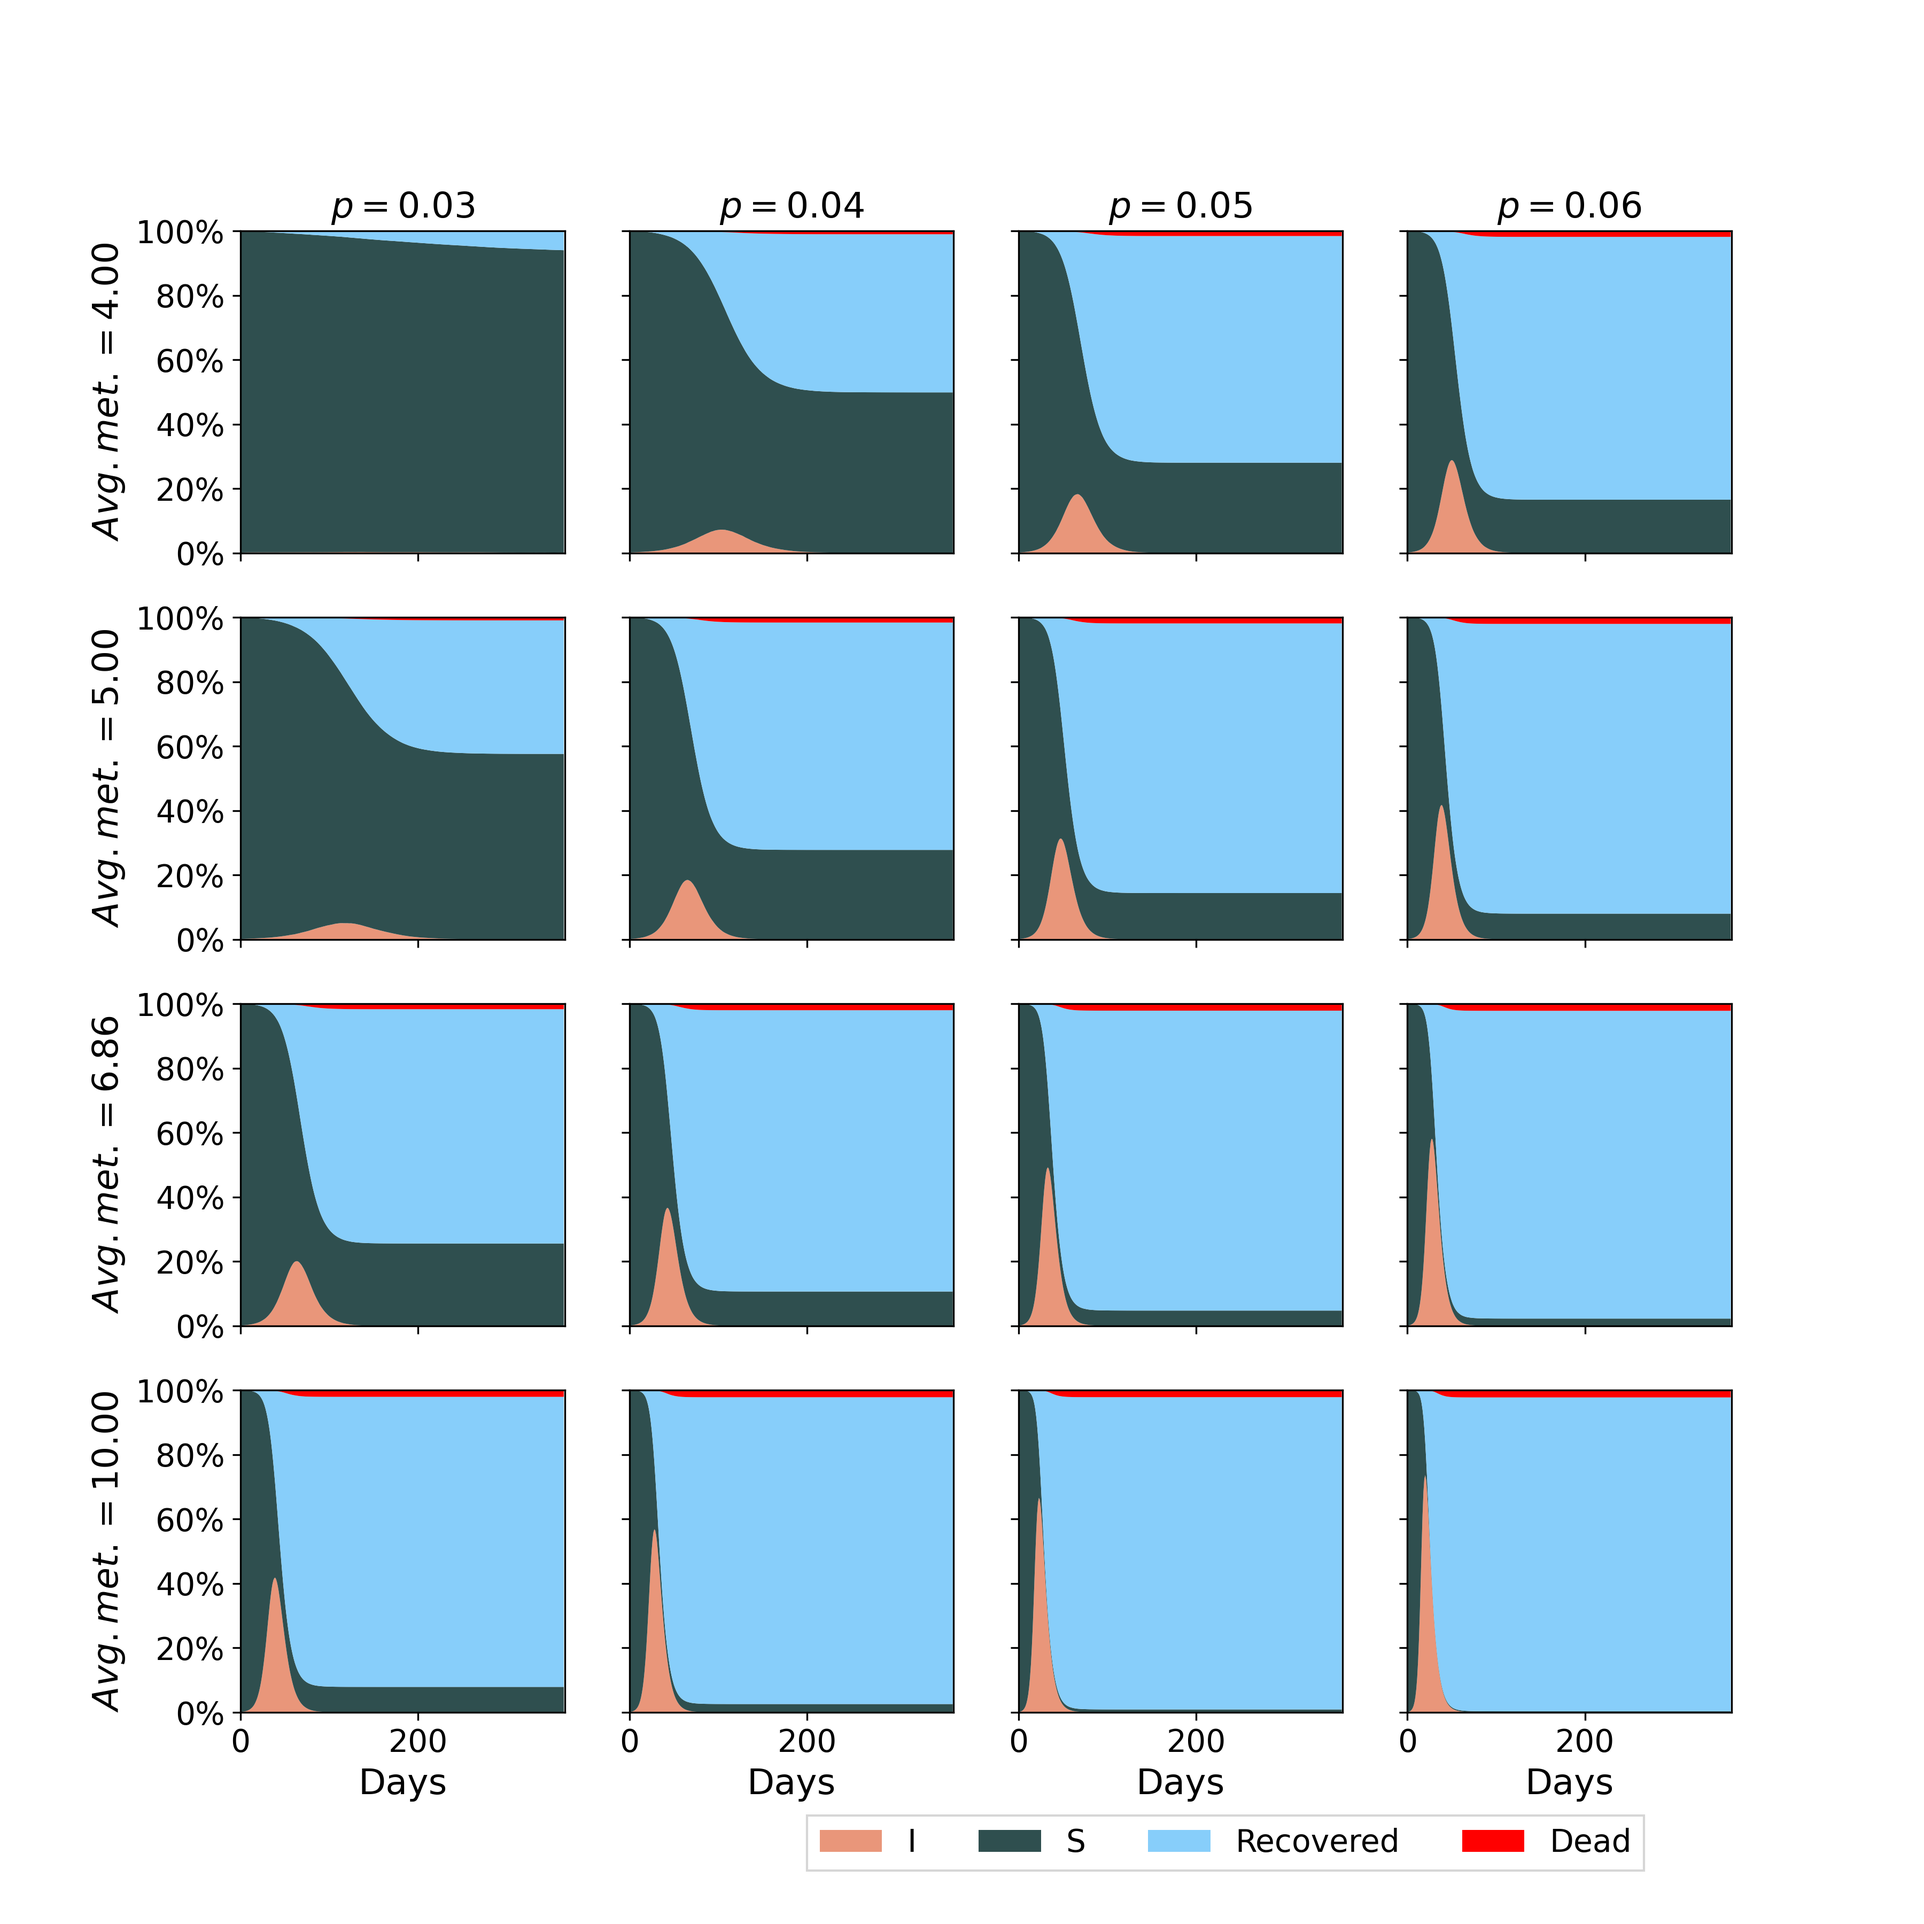
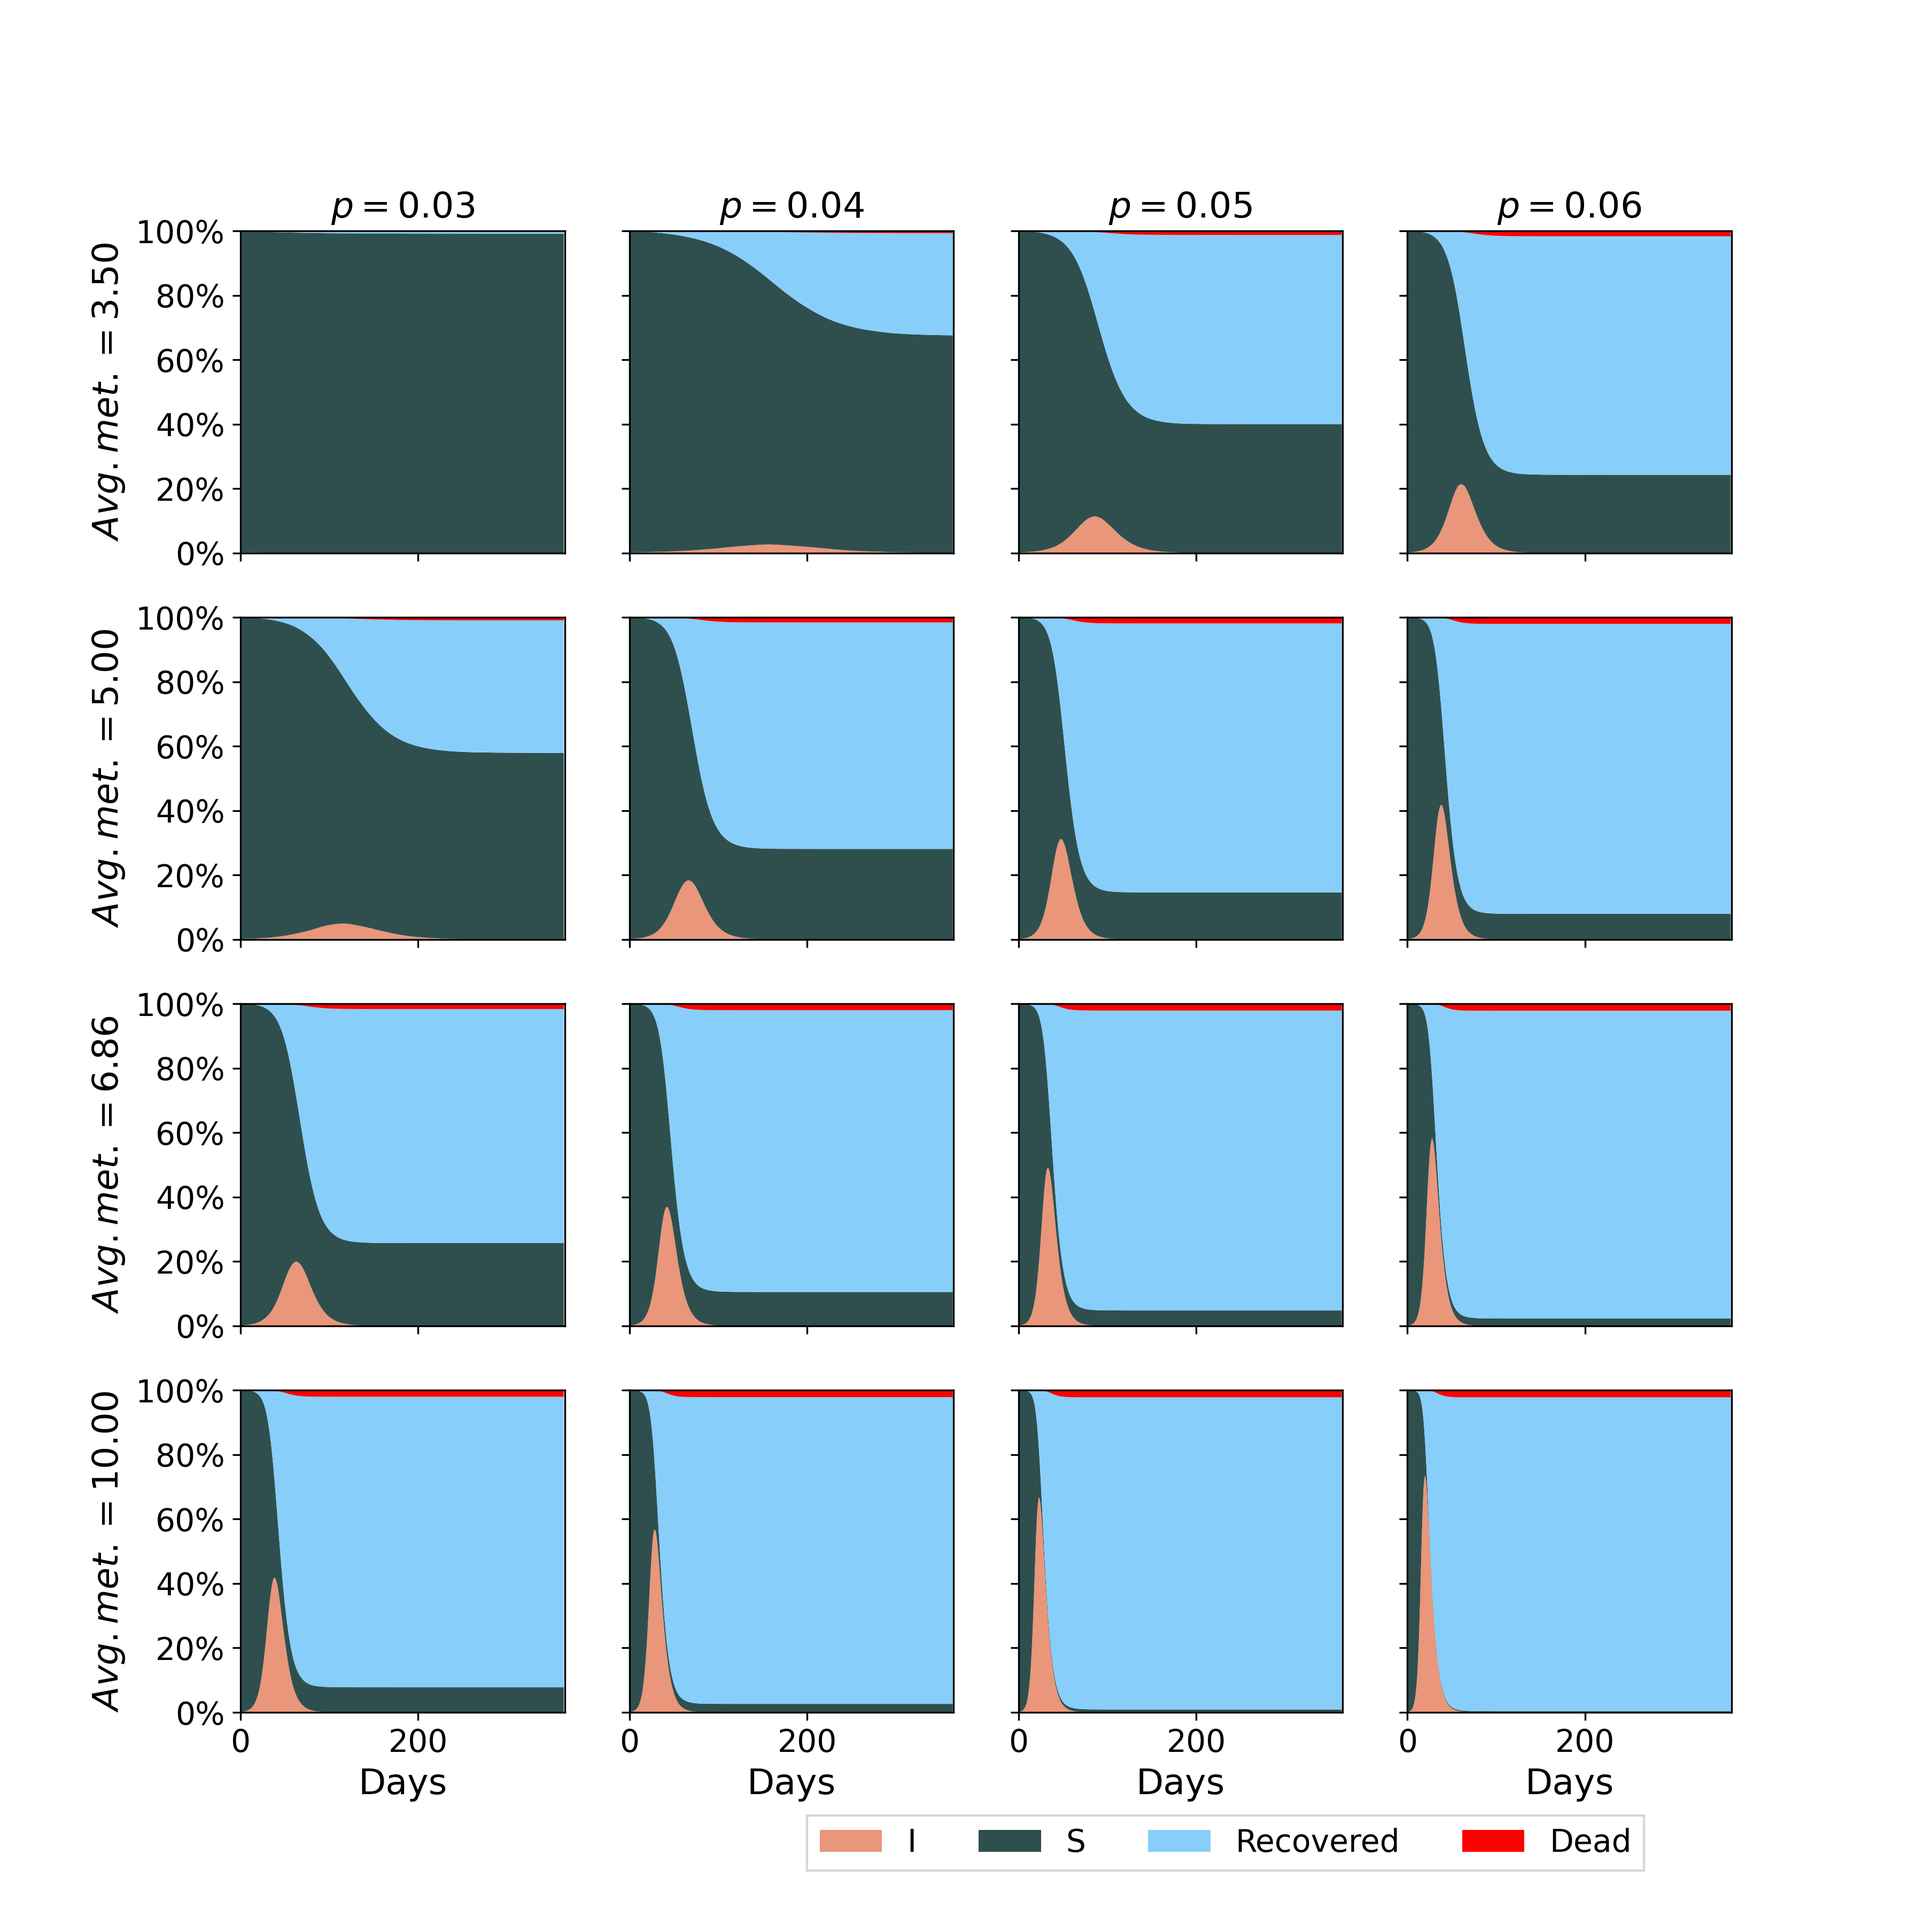
more plots

diff --git a/scenarios.py b/scenarios.py
@@ -14,7 +14,7 @@ from Region import Region
 from Sampler import Sampler
 import pandas as pd
 
-from simulation import simulate
+from simulation import simulate, repeat_simulate
 
 plot_path = 'plots'
 
@@ -58,9 +58,62 @@ def scenario2():
     copenhagen = Region('Copenhagen', population_size, sampler, I_initial)
     country = Country([copenhagen])
 
-    contageon_probs = [0.03, 0.04, 0.05, 0.06]
-    average_people_mets = [4, 5, 6.86, 10]
+    contageon_probs = [0.02, 0.025, 0.04, 0.05]
+    average_people_mets = [3, 5, 6.86, 10]
 
+    fig, axs = plt.subplots(1, len(contageon_probs), squeeze=True, sharey='row', figsize=(12, 4))
+    for i, (ax, contageon_prob) in enumerate(zip(axs, contageon_probs)):
+        sampler.contagion_prob = contageon_prob
+        result = simulate(country)
+        Plotter.plot_SIR(result, ax=ax)
+        ax.set_title(f'$p={contageon_prob:.3f}$')
+        ax.set_xlabel('Days')
+        if i == len(contageon_probs)-1:
+            ax.legend(['I', 'S', 'Recovered', 'Dead'], loc='upper center',
+                      bbox_to_anchor=(1.5, 1), fancybox=False, shadow=False, ncol=1)
+    plt.savefig(os.path.join(plot_path, '2_SEIR_hygene.png'), dpi=300)
+    plt.tight_layout()  # rect=[0, 0.03, 1, 0.95]
+    plt.show()
+
+    fig, axs = plt.subplots(1, len(average_people_mets), squeeze=True, sharey='row', figsize=(12, 4))
+    for i, (ax, avg_people_met_pr_day) in enumerate(zip(axs, average_people_mets)):
+        sampler.avg_people_met_pr_day = avg_people_met_pr_day
+        result = simulate(country)
+        Plotter.plot_SIR(result, ax=ax)
+        ax.set_title(f'$Avg. met ={avg_people_met_pr_day:.3f}$')
+        ax.set_xlabel('Days')
+        if i == len(average_people_mets)-1:
+            ax.legend(['I', 'S', 'Recovered', 'Dead'], loc='upper center',
+                      bbox_to_anchor=(1.5, 1), fancybox=False, shadow=False, ncol=1)
+    plt.savefig(os.path.join(plot_path, '2_SEIR_distancing.png'), dpi=300)
+    plt.tight_layout()  # rect=[0, 0.03, 1, 0.95]
+    plt.show()
+
+    if False:  # 2D grid plots
+        fig, axs = plt.subplots(len(average_people_mets), len(contageon_probs), squeeze=False,
+                                sharey='row', sharex='col', figsize=(12, 12))
+        for j, axs2 in enumerate(axs):
+            for i, ax in enumerate(axs2):
+                contageon_prob = contageon_probs[i]
+                average_people_met = average_people_mets[j]
+                sampler.contagion_prob = contageon_prob
+                sampler.avg_people_met_pr_day = average_people_met
+                result = simulate(country)
+                Plotter.plot_SIR(result, ax=ax)
+                if j == 0:
+                    ax.set_title(f'$p={contageon_prob:.2f}$')
+                if j == len(average_people_mets)-1:
+                    ax.set_xlabel('Days')
+                    if i == 1:
+                        ax.legend(['I', 'S', 'Recovered', 'Dead'], loc='lower left',
+                                  bbox_to_anchor=(0.5, -0.54, 2, .102), fancybox=False, shadow=False, ncol=4)
+                if i == 0:
+                    ax.set_ylabel(f'$Avg. met. ={average_people_met:.2f}$')
+
+        plt.savefig(os.path.join(plot_path, '2_SEIR.png'), dpi=300)
+        plt.show()
+
+    return None
     fig, axs = plt.subplots(len(average_people_mets), len(contageon_probs), squeeze=False,
                             sharey='row', sharex='col', figsize=(12, 12))
     for j, axs2 in enumerate(axs):
@@ -69,26 +122,46 @@ def scenario2():
             average_people_met = average_people_mets[j]
             sampler.contagion_prob = contageon_prob
             sampler.avg_people_met_pr_day = average_people_met
-            result = simulate(country)
-            Plotter.plot_SIR(result, ax=ax)
+            result = repeat_simulate(country)
+            Plotter.plot_intervals(result['I'], ax=ax)
             if j == 0:
                 ax.set_title(f'$p={contageon_prob:.2f}$')
-            if j == len(average_people_mets)-1:
+            if j == len(average_people_mets) - 1:
                 ax.set_xlabel('Days')
-                if i == 1:
-                    ax.legend(['I', 'S', 'Recovered', 'Dead'], loc='lower left',
-                              bbox_to_anchor=(0.5, -0.54, 2, .102), fancybox=False, shadow=False, ncol=4)
+                # if i == 1:
+                #    ax.legend(['I', 'S', 'Recovered', 'Dead'], loc='lower left',
+                #              bbox_to_anchor=(0.5, -0.54, 2, .102), fancybox=False, shadow=False, ncol=4)
             if i == 0:
                 ax.set_ylabel(f'$Avg. met. ={average_people_met:.2f}$')
 
-    # fig.subplots_adjust(bottom=0.3, wspace=0.33)
-
-    # plt.tight_layout(rect=[0, 0.03, 1, 0.95])  # mode='expand', borderaxespad=0.
-    # fig.legend(['S', 'I', 'R'], bbox_to_anchor=(2, 0), loc='lower right')
-    # plt.subplots_adjust(left=0.07, right=0.93, wspace=0.25, hspace=0.35)
-    plt.savefig(os.path.join(plot_path, '2_SEIR.png'), dpi=300)
+    plt.savefig(os.path.join(plot_path, '2_SEIR_infections.png'), dpi=300)
     plt.show()
 
+def scenario3():
+    np.random.seed(7)
+    # Simple SIR model.
+    sampler = Sampler()
+
+    population_size = 500_000
+    I_initial = 5_000
+    copenhagen = Region('Copenhagen', population_size, sampler, I_initial)
+    country = Country([copenhagen])
+
+    symp_people_out = [0.0, 0.05, 0.1, 0.2, 0.5]
+    fig, axs = plt.subplots(1, len(symp_people_out), squeeze=True, sharey='row', figsize=(12, 4.5))
+    for ax, fraction_symp_out in zip(axs, symp_people_out):
+        sampler.fraction_symp_out = fraction_symp_out
+        result = simulate(country)
+        Plotter.plot_SIR(result, ax=ax)
+        ax.set_title(f'$Symp. out ={fraction_symp_out:.2f}$')
+        ax.set_xlabel('Days')
+    ax.set_xlabel('')
+    ax.legend(['I', 'S', 'R'], loc='upper center', bbox_to_anchor=(0.5, -0.17), fancybox=False, shadow=False, ncol=3)
+    plt.tight_layout(rect=[0, 0.03, 1, 0.95])
+    # fig.legend(['S', 'I', 'R'], bbox_to_anchor=(2, 0), loc='lower right')
+    # plt.subplots_adjust(left=0.07, right=0.93, wspace=0.25, hspace=0.35)
+    plt.savefig(os.path.join(plot_path, '3_SEIR.png'), dpi=300)
+    plt.show()
 
 if __name__ == "__main__":
     scenario2()

diff --git a/Plotter.py b/Plotter.py
@@ -83,21 +83,23 @@ def plot_each_group(PI):
             ax[i][j].legend()
 
 
-def plot_intervals(y):
+def plot_intervals(y, ax=None):
+    if ax is None:
+        fig, ax = plt.subplots(1, 1, figsize=(12, 8))
     x = range(y.shape[-1])
 
     cmap = matplotlib.colors.LinearSegmentedColormap.from_list('custom',
                                                                [(0, 'lime'), (0.5, '#EFFD6F'), (1, 'tomato')])  # cm.jet
 
-    plt.plot(x, np.median(y, axis=0), color='k', lw=0.5)
+    ax.plot(x, np.median(y, axis=0), color='k', lw=0.5)
     norm = matplotlib.colors.Normalize(vmin=0, vmax=100)
     y.sort(0)
     for i in reversed(range(len(y))):
         p = i / (len(y) - 1) * 100
-        plt.fill_between(x, *y[[0, i], :], color=cmap(norm(p)))
-    cbar = plt.colorbar(cm.ScalarMappable(norm=norm, cmap=cmap.reversed() ))
-    plt.legend(['median'], loc='best')
-    plt.xlabel('Day')
+        ax.fill_between(x, *y[[0, i], :], color=cmap(norm(p)))
+    cbar = plt.colorbar(cm.ScalarMappable(norm=norm, cmap=cmap.reversed()), ax=ax)
+    # ax.legend(['median'], loc='best')
+    ax.set_xlabel('Day')
 
     cbar.ax.get_yaxis().labelpad = 15
     cbar.ax.set_ylabel('Risk', rotation=270)
